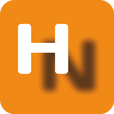
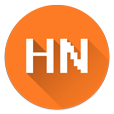
update icos; change copywriting

diff --git a/index.html b/index.html
@@ -78,7 +78,7 @@
 	        <div class="container">
 	            <div class="row">
 	                <div class="col-sm-12 features">
-	                    <h2>Features</h2>
+	                    <h2>Unique Features</h2>
 	                </div>
 	            </div>
 	            <div class="row">
@@ -119,8 +119,8 @@
 					<h2>Customizable Typography</h2>
 	                    <p>
 	                    	<strong>Bunch of typography adjustment options, for the best reading experience.</strong> <br />
-	                    	*10 distinct fonts: PT Sans, Roboto, Lato, Open Sans, Muli, Slabo 27px, Crimson Text, Roboto Slab, Vollkorn, Merriweather.<br />
-							*Fine-tuning font size and line-height is just a breeze.
+	                    	* 10 distinct fonts;<br />
+							* Fine-tuning font size and line-height is just a breeze.
 	                    </p>
 						<div class="call-to-action-in-page">
 						<h3>Get it now <i class="fa  fa-arrow-right"></i><a href="https://play.google.com/store/apps/details?id=com.leavjenn.hews&utm_content=customtypo">
@@ -146,8 +146,8 @@
 	                <div class="col-sm-6 single-feature-img-description">
 	                    <h2>Two-way Comments Collapsing</h2>
 	                    <p>
-	                    	*I'm your father: Collapse all the children of one comment;<br />
-							*Come to Mama: Collapse all the comments between the chosen one and it's parent.
+	                    	* I'm your father: Collapse all the children of one comment;<br />
+							* Come to Mama: Collapse all the comments between the chosen one and it's parent.
 	                    </p>
 						<div class="call-to-action-in-page">
 						<h3>Get it now <i class="fa  fa-arrow-right"></i><a href="https://play.google.com/store/apps/details?id=com.leavjenn.hews&utm_content=commentcollapse">
